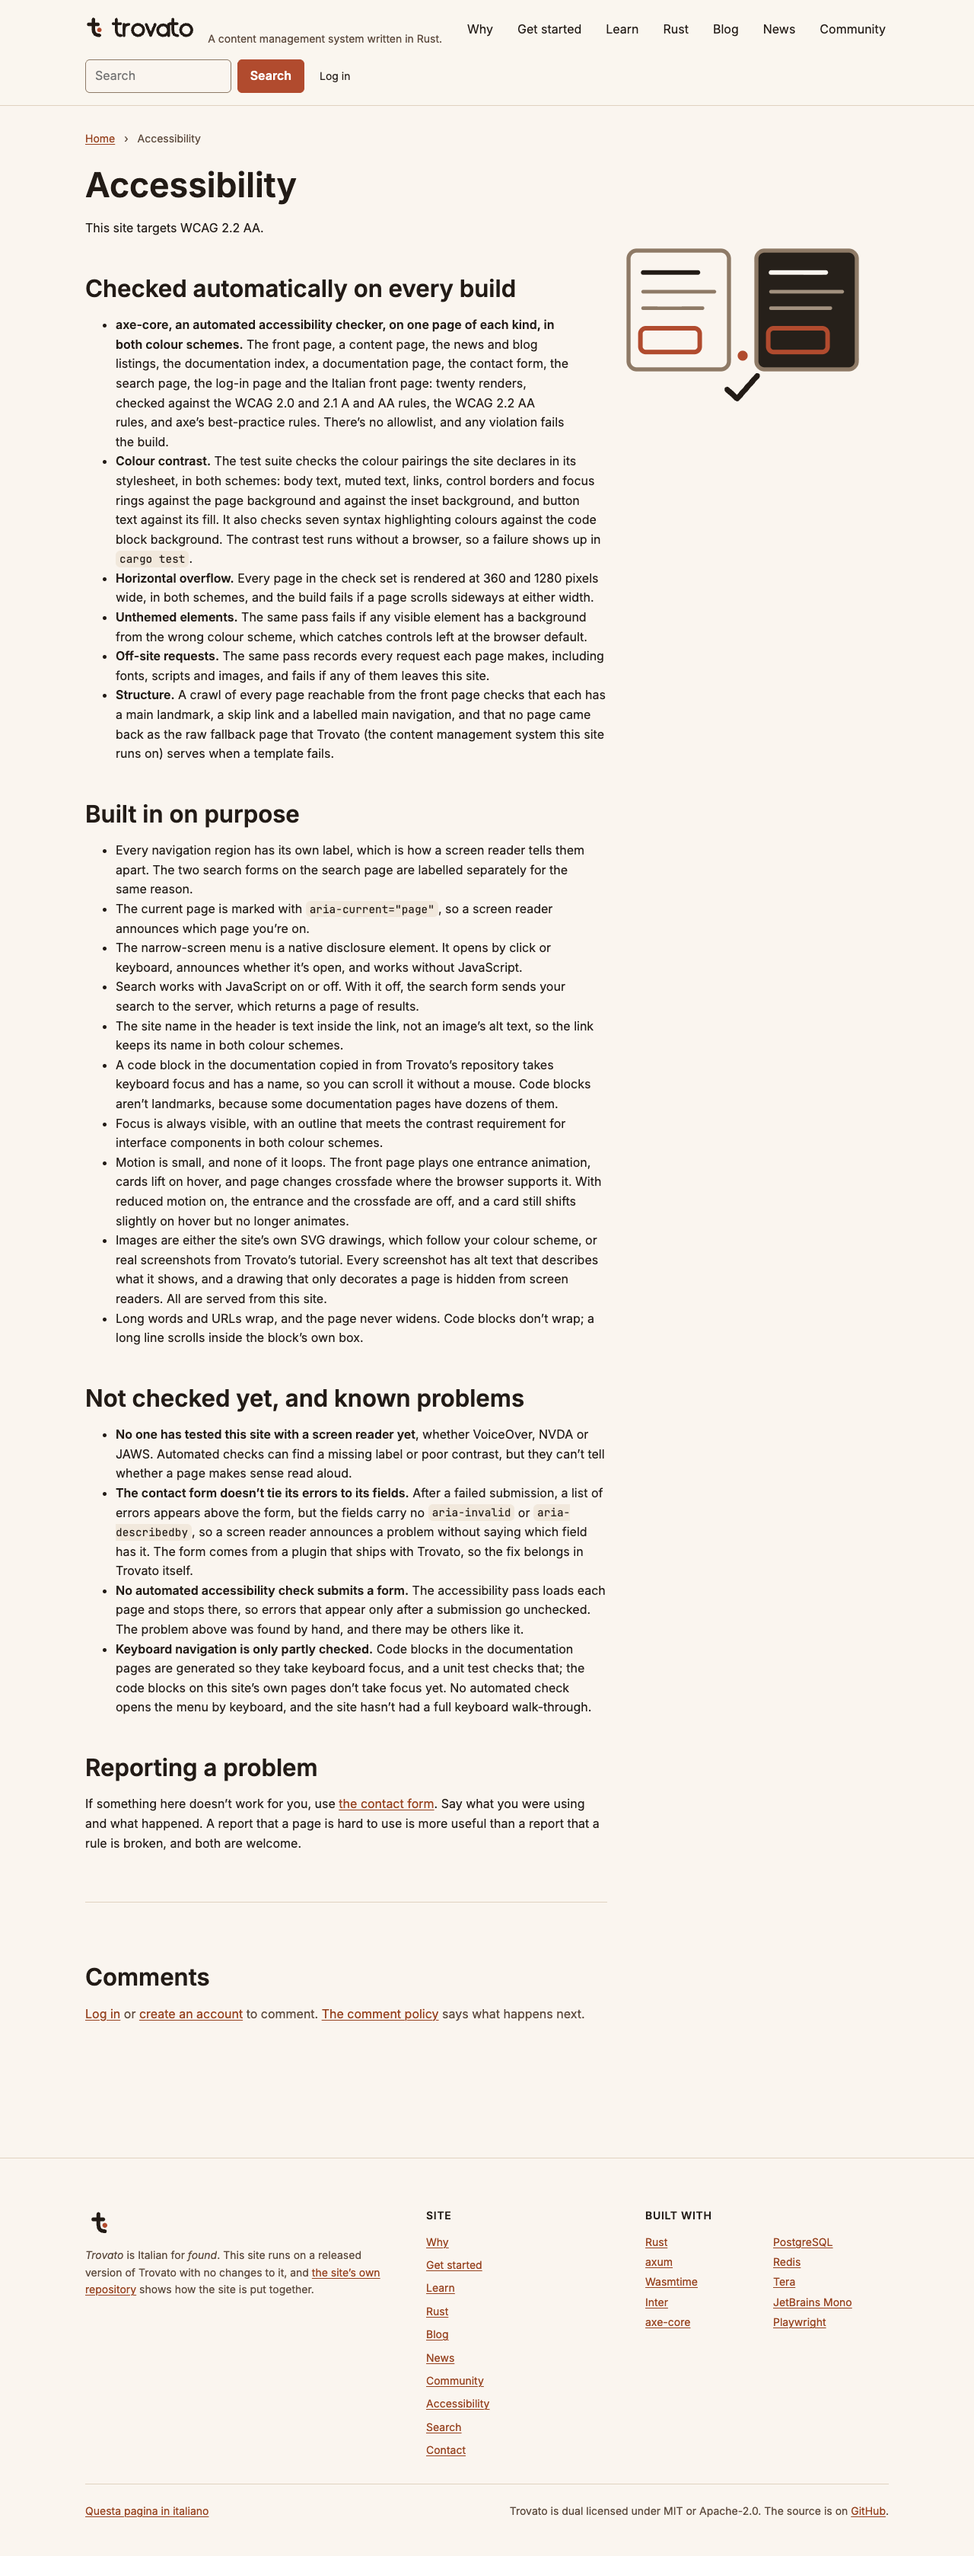
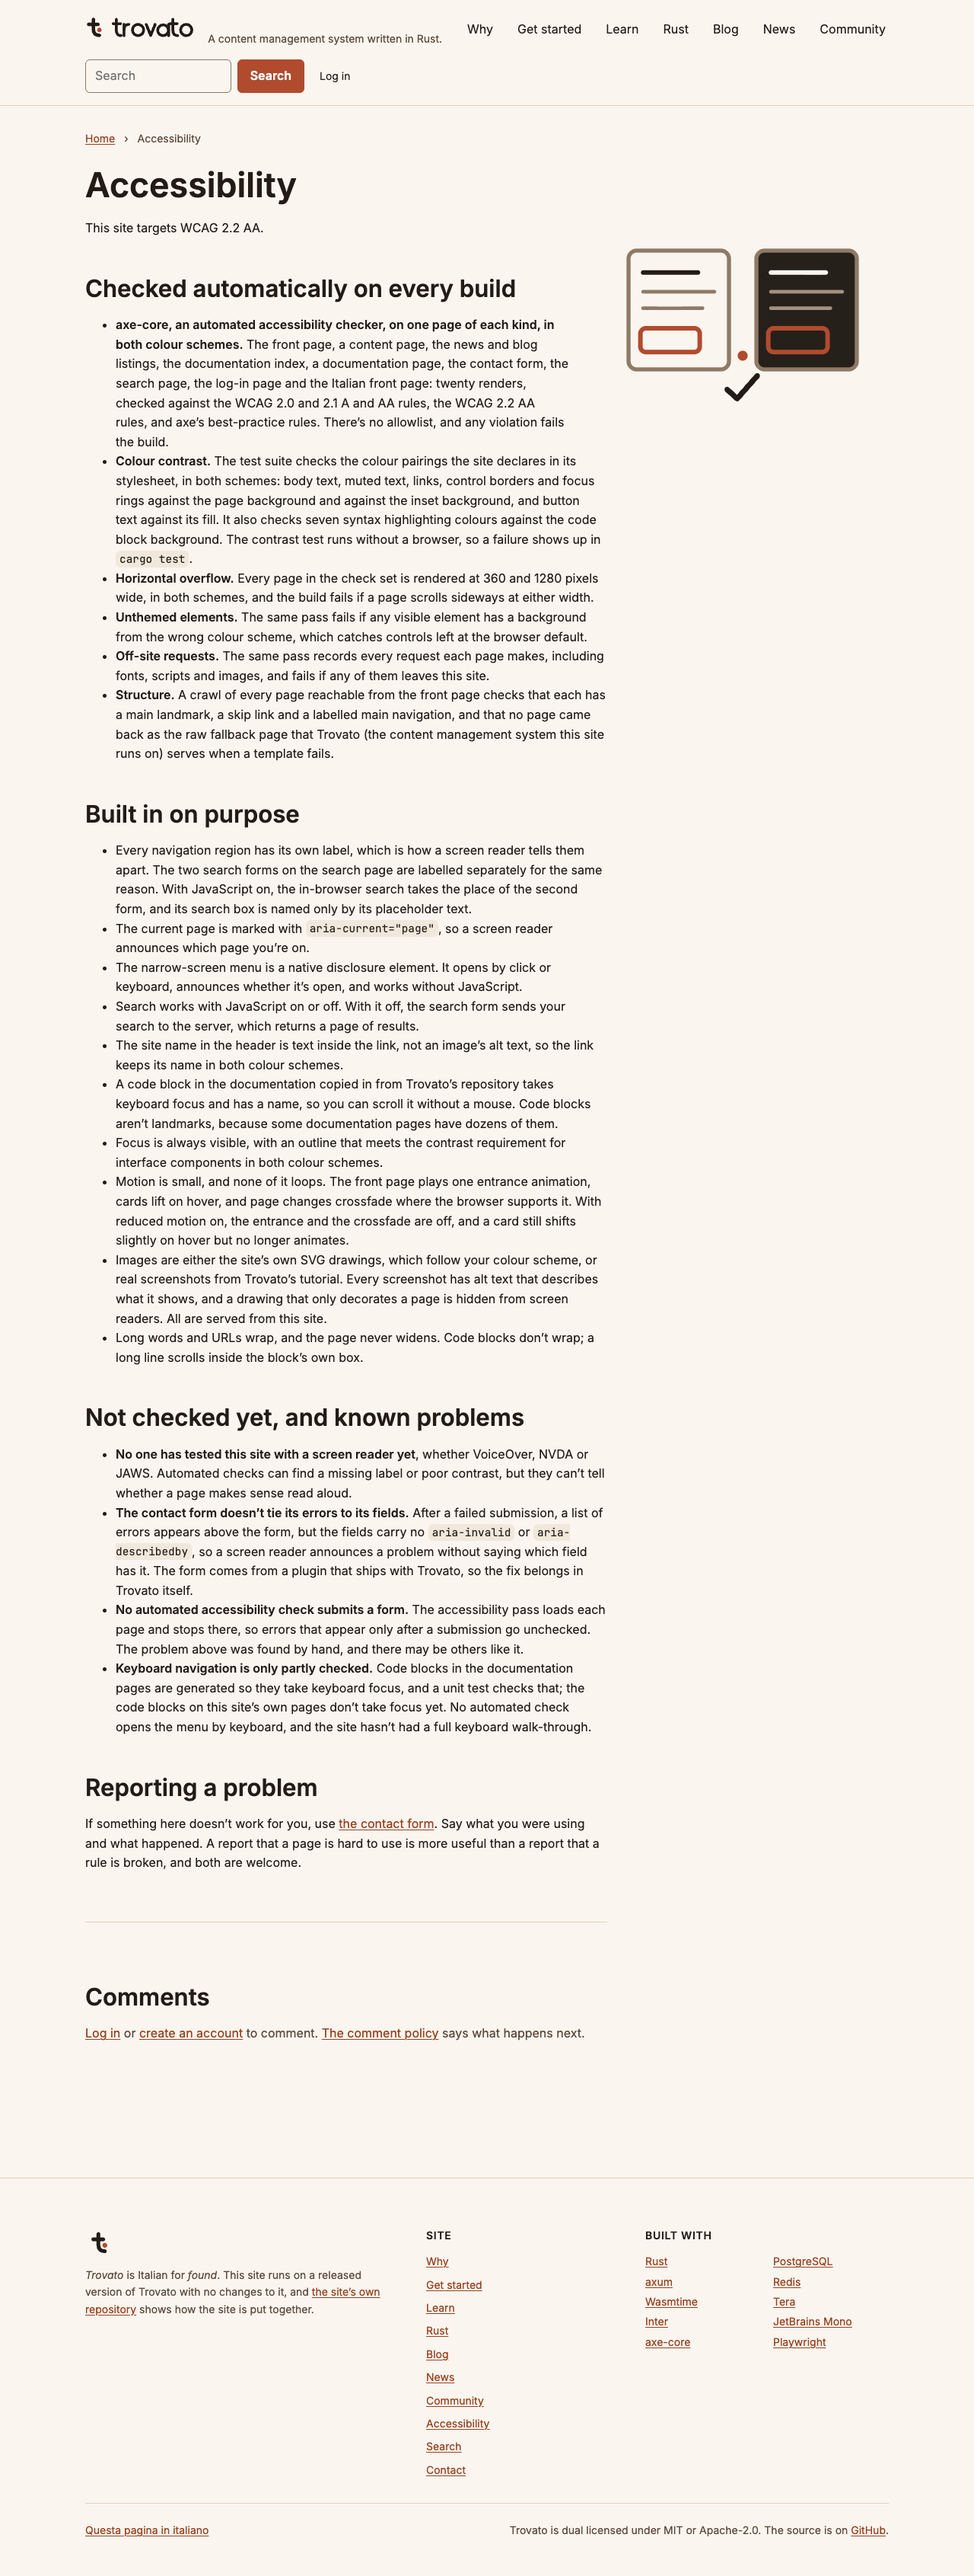
Screenshots from the redeployed review site, and the ledger entry brought up to date

diff --git a/docs/LEDGER.md b/docs/LEDGER.md
@@ -1463,7 +1463,20 @@ search settings model, and a `templates/search.html` with `scolta-config` and
   index is not served after the first tick.
 - The search explainer describes the in-browser search and the server
   fallback. The accessibility page, English and Italian, no longer says
-  search works the same with JavaScript on or off.
+  search works the same with JavaScript on or off, and says the in-browser
+  search box is named only by its placeholder (the kernel's `scolta.js`
+  gives it no label).
+- The in-browser results needed the site's styling. At 390px an excerpt
+  quoting a long URL pushed the page to 614px (the kernel's narrow layout is a
+  bare `1fr` column), and the kernel stylesheet's literal greys and the
+  site's peach highlight failed contrast in both schemes. `site.css` now lets
+  the column shrink, breaks long words, and puts every text colour the
+  results use on a checked token; `tokens.css` adds `--highlight`, checked
+  against `--text`, `--text-muted` and `--link` in both schemes.
+- The render and accessibility gates now load `/search?q=Drupal` rather than
+  `/search`, so they cover the in-browser results. Without the CSS above,
+  shoot fails it on overflow and on the highlight, and a11y fails it on
+  contrast.
 
 ### Checked
 
@@ -1475,5 +1488,6 @@ search settings model, and a `templates/search.html` with `scolta-config` and
 | Excerpts | "Look & Feel" and `"<uuid>"` render once escaped |
 | Pod deleted | index 404 on the new pod, built by the sidecar's first tick 61 s later ("the live directory /app/static/pagefind has no pagefind-entry.json"), check repeated clean |
 | `/admin/config/search` | expansion, summary, follow ups, analytics and sentiment off |
+| `deploy/k3s/gate.sh` on the review site | crawl, a11y, shoot, roundtrip, moderation PASS |
 
 Screenshots: `docs/screenshots/c8-*.png`.
